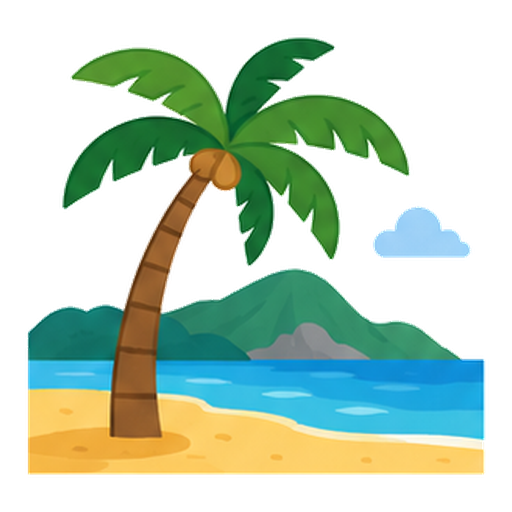
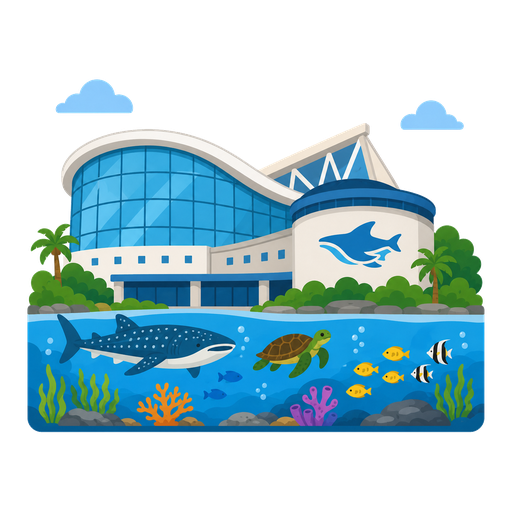
✨ feat(monopoly): 12×7 ring board with 22 Taiwan landmark properties
- Redesign board ring from 9×5 (24 tiles) to 12×7 (34 tiles) with
  all four corners as special tiles (start/jail/chance/fate)
- Name every property as 地名+景點 (e.g. 台北101, 南投日月潭, 雲林太平雲梯,
  屏東海生館, 宜蘭龜山島); 22 properties + 12 special tiles
- Replace fate card art with the new dice design (fate.webp)
- Add 9 new landmark illustrations (landmark-16~24) and swap
  landmark-09 (太平雲梯) / landmark-13 (海生館)
- Update Board.tsx tilePos/innerEdge geometry, grid template and
  aspect ratio for the new ring
- Extend preprocess script for multi-grid sources; update board/rules
  tests for the new tile positions (51 passing)

diff --git a/lib/monopoly/board.ts b/lib/monopoly/board.ts
@@ -22,36 +22,48 @@ function prop(
   };
 }
 
-// 地標圖依棋盤 property 出現順序對應 landmark-01..15
+// 地標圖路徑（編號沿用原素材，移除的格不再引用）
 function landmark(n: number): string {
   return `/images/monopoly/landmark-${String(n).padStart(2, "0")}.webp`;
 }
 
+// 34 格沿 12×7 方框邊緣排列，順時針。四角皆為特殊格（起點/監獄/機會/命運）。
+// 22 個地產，台北固定在 index 1（命運卡 moveTo 會用到）。
 export const BOARD: Tile[] = [
   { index: 0, type: "start", name: "起點" },
-  prop(1, "台北", 2000, landmark(1)),
-  { index: 2, type: "chance", name: "機會", image: CHANCE_IMG },
-  prop(3, "新北", 1800, landmark(2)),
-  prop(4, "基隆", 1200, landmark(3)),
-  { index: 5, type: "fate", name: "命運", image: FATE_IMG },
-  prop(6, "桃園", 1600, landmark(4)),
-  prop(7, "新竹", 1500, landmark(5)),
-  { index: 8, type: "jail", name: "監獄" },
+  prop(1, "台北101", 2000, landmark(1)),
+  prop(2, "新北野柳", 1800, landmark(2)),
+  { index: 3, type: "chance", name: "機會", image: CHANCE_IMG },
+  prop(4, "基隆燈塔", 1200, landmark(3)),
+  prop(5, "桃園機場", 1600, landmark(4)),
+  { index: 6, type: "fate", name: "命運", image: FATE_IMG },
+  prop(7, "新竹米粉", 1500, landmark(5)),
+  prop(8, "台中歌劇院", 1900, landmark(6)),
   { index: 9, type: "chance", name: "機會", image: CHANCE_IMG },
-  prop(10, "台中", 1900, landmark(6)),
-  prop(11, "彰化", 1300, landmark(7)),
-  { index: 12, type: "fate", name: "命運", image: FATE_IMG },
-  prop(13, "南投", 1100, landmark(8)),
-  prop(14, "雲林", 1000, landmark(9)),
-  { index: 15, type: "chance", name: "機會", image: CHANCE_IMG },
-  prop(16, "嘉義", 1200, landmark(10)),
-  prop(17, "台南", 1700, landmark(11)),
-  { index: 18, type: "fate", name: "命運", image: FATE_IMG },
-  prop(19, "高雄", 1900, landmark(12)),
-  { index: 20, type: "chance", name: "機會", image: CHANCE_IMG },
-  prop(21, "屏東", 1100, landmark(13)),
-  prop(22, "花蓮", 1000, landmark(14)),
-  prop(23, "台東", 900, landmark(15)),
+  prop(10, "彰化扇形車庫", 1300, landmark(7)),
+  { index: 11, type: "jail", name: "監獄" },
+  prop(12, "南投日月潭", 1100, landmark(8)),
+  prop(13, "雲林太平雲梯", 1000, landmark(9)),
+  { index: 14, type: "fate", name: "命運", image: FATE_IMG },
+  prop(15, "嘉義阿里山", 1200, landmark(10)),
+  prop(16, "台南安平古堡", 1700, landmark(11)),
+  { index: 17, type: "chance", name: "機會", image: CHANCE_IMG },
+  prop(18, "高雄85大樓", 1900, landmark(12)),
+  prop(19, "屏東海生館", 1100, landmark(13)),
+  { index: 20, type: "fate", name: "命運", image: FATE_IMG },
+  prop(21, "花蓮太魯閣", 1000, landmark(14)),
+  prop(22, "台東熱氣球", 900, landmark(15)),
+  { index: 23, type: "chance", name: "機會", image: CHANCE_IMG },
+  prop(24, "龍騰斷橋", 1400, landmark(16)),
+  prop(25, "宜蘭龜山島", 1300, landmark(17)),
+  { index: 26, type: "fate", name: "命運", image: FATE_IMG },
+  prop(27, "阿里山神木", 1600, landmark(19)),
+  { index: 28, type: "fate", name: "命運", image: FATE_IMG },
+  prop(29, "嘉義噴水池", 1100, landmark(20)),
+  prop(30, "澎湖玄武岩", 1300, landmark(22)),
+  { index: 31, type: "chance", name: "機會", image: CHANCE_IMG },
+  prop(32, "馬祖藍眼淚", 1700, landmark(23)),
+  prop(33, "三峽老街", 1400, landmark(24)),
 ];
 
 export const BOARD_SIZE = BOARD.length;

diff --git a/lib/monopoly/rules.test.ts b/lib/monopoly/rules.test.ts
@@ -69,10 +69,10 @@ describe("takeTurn 擲骰與移動", () => {
     expect(s.players[0].position).toBe(12); // 0 -> 12
   });
 
-  it("繞過起點發薪並 lap+1（從 23 擲 5 → 繞回 4）", () => {
+  it("繞過起點發薪並 lap+1（從 33 擲 5 → 繞回 4）", () => {
     let s = game();
-    s = { ...s, players: replaceForTest(s.players, 0, { position: 23 }) };
-    s = takeTurn(s, seqRng([0.5, 0]), 0); // 4 + 1 = 5; 23+5=28 %24 =4，經過起點
+    s = { ...s, players: replaceForTest(s.players, 0, { position: 33 }) };
+    s = takeTurn(s, seqRng([0.5, 0]), 0); // 4 + 1 = 5; 33+5=38 %34 =4，經過起點
     expect(s.players[0].position).toBe(4);
     expect(s.players[0].money).toBe(
       DEFAULT_SETTINGS.startingMoney + DEFAULT_SETTINGS.passStartBonus,
@@ -110,14 +110,14 @@ describe("resolveLanding 各格", () => {
 
   it("機會格 → drawCard(chance)", () => {
     let s = game();
-    s = { ...s, players: replaceForTest(s.players, 0, { position: 2 }) };
+    s = { ...s, players: replaceForTest(s.players, 0, { position: 3 }) };
     s = resolveLanding(s, seqRng([0]), 0);
     expect(s.pendingAction).toMatchObject({ kind: "drawCard", deck: "chance" });
   });
 
   it("監獄格 → skipTurns=1 並結束回合（pendingAction 為 null）", () => {
     let s = game();
-    s = { ...s, players: replaceForTest(s.players, 0, { position: 7 }) };
+    s = { ...s, players: replaceForTest(s.players, 0, { position: 11 }) };
     s = resolveLanding(s, seqRng([0]), 0);
     expect(s.players[0].skipTurns).toBe(1);
     expect(s.pendingAction).toBeNull();
@@ -222,8 +222,8 @@ function landOnCard(_deck: "chance" | "fate", pos: number) {
 
 describe("drawAndApplyCard", () => {
   it("money 卡 → 加錢並結束回合", () => {
-    // 機會格 index 2，seqRng 第一個值挑卡：挑到 c1(+2000)
-    let s = landOnCard("chance", 2);
+    // 機會格 index 3，seqRng 第一個值挑卡：挑到 c1(+2000)
+    let s = landOnCard("chance", 3);
     s = resolveLanding(s, seqRng([0]), 0); // pendingAction drawCard chance, card index 0 = c1 +2000
     s = drawAndApplyCard(s, seqRng([0]), 0);
     expect(s.players[0].money).toBe(15000 + 2000);
@@ -231,7 +231,7 @@ describe("drawAndApplyCard", () => {
   });
 
   it("moveTo 起點(0) → 移動後落點結算（起點無事、結束回合）", () => {
-    let s = landOnCard("chance", 2);
+    let s = landOnCard("chance", 3);
     // 強制抽到 c5 (moveTo 0)：CHANCE_CARDS index 4 → rng 0.7*6=4
     s = resolveLanding(s, seqRng([4 / 6 + 0.001]), 0);
     s = drawAndApplyCard(s, seqRng([0]), 0);
@@ -239,7 +239,7 @@ describe("drawAndApplyCard", () => {
   });
 
   it("jail 卡 → skipTurns=1", () => {
-    let s = landOnCard("fate", 5);
+    let s = landOnCard("fate", 6);
     // FATE_CARDS index 3 = f4 jail → rng 3/6+eps
     s = resolveLanding(s, seqRng([3 / 6 + 0.001]), 0);
     s = drawAndApplyCard(s, seqRng([0]), 0);
@@ -259,12 +259,15 @@ describe("drawAndApplyCard", () => {
 describe("結束條件", () => {
   it("moneyGoal 達標立即結束、該玩家第一", () => {
     let s = startGame(
-      { ...DEFAULT_SETTINGS, endCondition: { type: "moneyGoal", amount: 16000 } },
+      {
+        ...DEFAULT_SETTINGS,
+        endCondition: { type: "moneyGoal", amount: 16000 },
+      },
       Q,
       PLAYERS,
       0,
     );
-    s = { ...s, players: replaceForTest(s.players, 0, { position: 2 }) };
+    s = { ...s, players: replaceForTest(s.players, 0, { position: 3 }) };
     // 機會格抽 c1 +2000 → 17000 >= 16000
     s = resolveLanding(s, seqRng([0]), 0);
     s = drawAndApplyCard(s, seqRng([0]), 0);
@@ -297,7 +300,10 @@ describe("結束條件", () => {
 
   it("ranking 依現金排序，同分比資產", () => {
     let s = game();
-    s = { ...s, players: replaceForTest(s.players, 0, { money: 5000, ownedTiles: [1] }) };
+    s = {
+      ...s,
+      players: replaceForTest(s.players, 0, { money: 5000, ownedTiles: [1] }),
+    };
     s = { ...s, players: replaceForTest(s.players, 1, { money: 5000 }) };
     expect(ranking(s)[0].name).toBe("小明"); // 同現金，p0 有資產
   });

diff --git a/components/monopoly/Board.tsx b/components/monopoly/Board.tsx
@@ -38,27 +38,27 @@ function HouseMarker({ color, size }: { color: string; size: number }) {
   );
 }
 
-// 24 格沿 9×5 方框邊緣排列（1-indexed row/col）。起點(0)在左上角，順時針。
+// 34 格沿 12×7 方框邊緣排列（1-indexed row/col）。起點(0)在左上角，順時針。
 function tilePos(i: number): { row: number; col: number } {
-  if (i <= 8) return { row: 1, col: i + 1 }; // 上排 0..8
-  if (i <= 12) return { row: i - 7, col: 9 }; // 右排 9..12（第 2..5 列）
-  if (i <= 20) return { row: 5, col: 21 - i }; // 下排 13..20（第 8..1 欄）
-  return { row: 25 - i, col: 1 }; // 左排 21..23（第 4..2 列）
+  if (i <= 11) return { row: 1, col: i + 1 }; // 上排 0..11（第 1..12 欄）
+  if (i <= 17) return { row: i - 10, col: 12 }; // 右排 12..17（第 2..7 列）
+  if (i <= 28) return { row: 7, col: 29 - i }; // 下排 18..28（第 11..1 欄）
+  return { row: 35 - i, col: 1 }; // 左排 29..33（第 6..2 列）
 }
 
 // 房子放在土地「靠近遊戲中心」的內側邊緣（依格子在環上的位置決定方向）
 function innerEdge(i: number): { cell: string; stack: string } {
-  if (i <= 8)
+  if (i <= 11)
     return {
       cell: "items-end justify-center",
       stack: "flex-row translate-y-[130%]",
     }; // 上排：底邊朝中心
-  if (i <= 12)
+  if (i <= 17)
     return {
       cell: "items-center justify-start",
       stack: "flex-col -translate-x-[130%]",
     }; // 右排：左邊朝中心
-  if (i <= 20)
+  if (i <= 28)
     return {
       cell: "items-start justify-center",
       stack: "flex-row -translate-y-[130%]",
@@ -123,7 +123,7 @@ function TileCard({ tile, players }: { tile: Tile; players: Player[] }) {
             src={tile.image}
             alt={tile.name}
             fill
-            sizes="110px"
+            sizes="90px"
             className="object-contain p-0.5"
           />
         ) : special?.emoji ? (
@@ -156,9 +156,9 @@ export function Board({
     walking && walking.playerId === p.id ? walking.pos : p.position;
 
   return (
-    <div className="aspect-[9/5] w-[min(97vw,calc((100vh_-_1.5rem)*1.8))]">
+    <div className="aspect-[12/7] w-[min(98vw,calc((100vh_-_1.5rem)*1.714))]">
       <LayoutGroup>
-        <div className="relative grid h-full w-full grid-cols-9 grid-rows-5 gap-1.5 rounded-[20px] border-[6px] border-amber-950/10 bg-[#fdf4e3] p-1.5 shadow-[0_18px_50px_-18px_rgba(120,80,20,0.5)]">
+        <div className="relative grid h-full w-full grid-cols-[repeat(12,minmax(0,1fr))] grid-rows-[repeat(7,minmax(0,1fr))] gap-1 rounded-[20px] border-[6px] border-amber-950/10 bg-[#fdf4e3] p-1 shadow-[0_18px_50px_-18px_rgba(120,80,20,0.5)]">
           {BOARD.map((tile) => {
             const pos = tilePos(tile.index);
             return (
@@ -173,13 +173,13 @@ export function Board({
 
           <div
             className="m-1 flex items-center justify-center rounded-2xl bg-emerald-50/70 p-3 ring-1 ring-emerald-900/10"
-            style={{ gridColumn: "2 / 9", gridRow: "2 / 5" }}
+            style={{ gridColumn: "2 / 12", gridRow: "2 / 7" }}
           >
             {center}
           </div>
 
           {/* 房子覆蓋層：擁有的土地在靠近中心的內側邊緣放上玩家顏色的房子 */}
-          <div className="pointer-events-none absolute inset-0 grid grid-cols-9 grid-rows-5 gap-1.5 p-1.5">
+          <div className="pointer-events-none absolute inset-0 grid grid-cols-[repeat(12,minmax(0,1fr))] grid-rows-[repeat(7,minmax(0,1fr))] gap-1 p-1">
             {BOARD.map((tile) => {
               if (!isProperty(tile)) return null;
               const owner = players.find((p) =>
@@ -213,7 +213,7 @@ export function Board({
           </div>
 
           {/* 棋子覆蓋層：與格子對齊、不裁切，棋子放大或走格都不會被切到鄰格 */}
-          <div className="pointer-events-none absolute inset-0 grid grid-cols-9 grid-rows-5 gap-1.5 p-1.5">
+          <div className="pointer-events-none absolute inset-0 grid grid-cols-[repeat(12,minmax(0,1fr))] grid-rows-[repeat(7,minmax(0,1fr))] gap-1 p-1">
             {BOARD.map((tile) => {
               const here = players.filter(
                 (p) => !p.bankrupt && renderPos(p) === tile.index,

diff --git a/scripts/preprocess_monopoly_images.py b/scripts/preprocess_monopoly_images.py
@@ -7,6 +7,7 @@ import numpy as np
 from PIL import Image
 
 SRC = Path("public/images/monopoly")
+RAW = SRC / "source-raw"
 OUT = SRC / "processed"
 OUT.mkdir(exist_ok=True)
 
@@ -97,16 +98,21 @@ def split_grid(path: Path, rows: int, cols: int):
 def main():
     singles = {"機會卡": "chance", "命運卡": "fate", "房子": "house"}
     for zh, en in singles.items():
-        src = SRC / f"{zh}.png"
+        src = RAW / f"{zh}.png"
         if src.exists():
             print(f"[single] {zh}.png")
             process(Image.open(src), en)
 
-    grid = SRC / "景點.png"
-    if grid.exists():
-        print("[grid] 景點.png -> 16 cells")
-        for i, cell in enumerate(split_grid(grid, 4, 4), start=1):
-            process(cell, f"landmark-{i:02d}")
+    grids = [
+        ("景點.png", 4, 4, 1),     # 第一批 4x4 -> landmark-01..16
+        ("景點02.png", 3, 3, 16),  # 第二批 3x3 -> landmark-16..24
+    ]
+    for fname, rows, cols, start in grids:
+        grid = RAW / fname
+        if grid.exists():
+            print(f"[grid] {fname} -> {rows * cols} cells (start {start})")
+            for i, cell in enumerate(split_grid(grid, rows, cols), start=start):
+                process(cell, f"landmark-{i:02d}")
 
 
 if __name__ == "__main__":